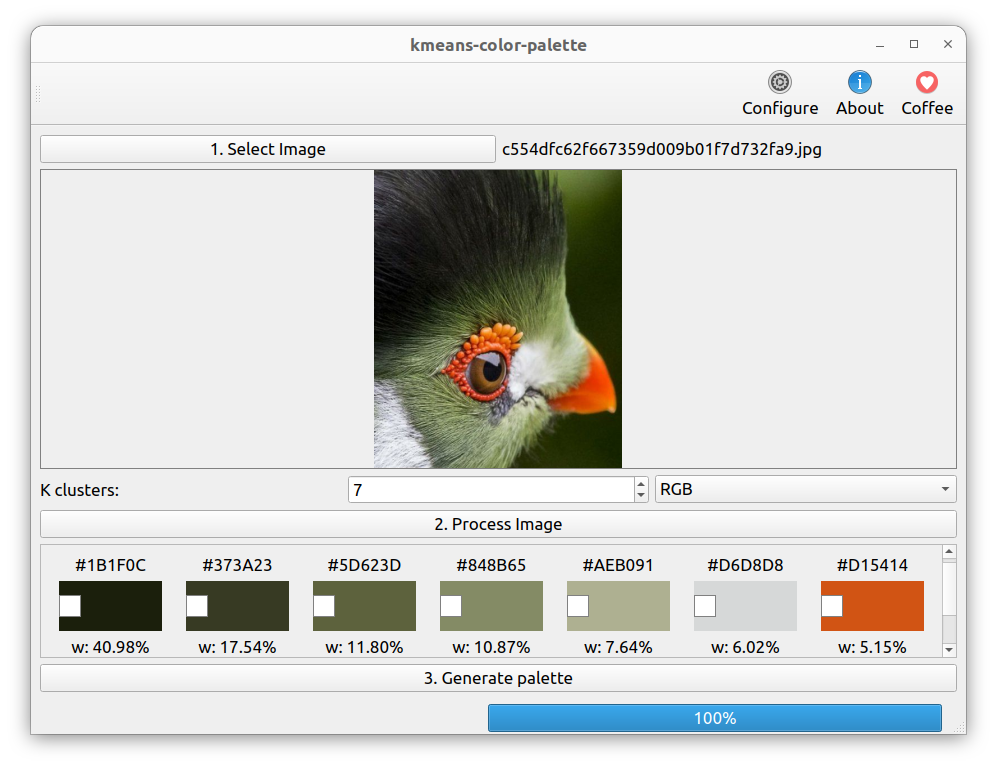
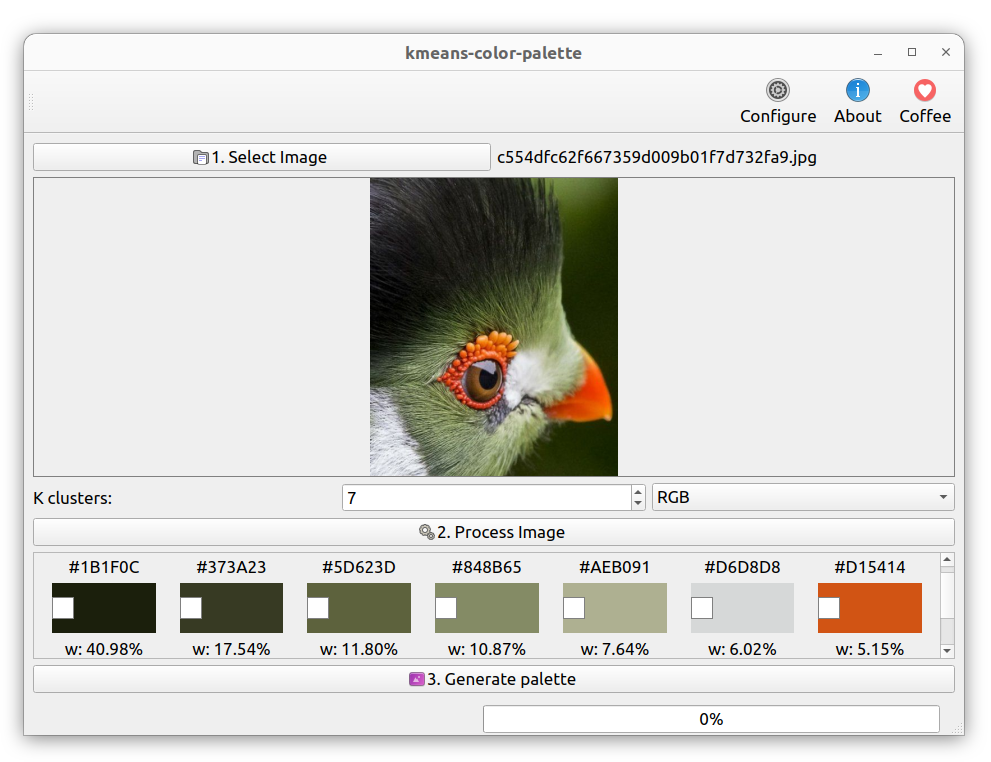
primera version

Changed region(s): [[0.0, 0.0302, 0.999, 0.9659], [0.9384, 0.2113, 0.9687, 0.2415], [0.333, 0.6339, 0.3633, 0.664]]

diff --git a/src/kmeans_color_palette/program.py b/src/kmeans_color_palette/program.py
@@ -345,6 +345,7 @@ class ColorPaletteGUI(QMainWindow):
         # --- Atualizar GUI ---
         self.update_colors_gui()
         
+        self.progress.setValue(0)
         self.setEnabled(True)
 
     def update_colors_gui(self):
@@ -463,8 +464,25 @@ class ColorPaletteGUI(QMainWindow):
 def main():
     signal.signal(signal.SIGINT, signal.SIG_DFL)
     
+    create_desktop_directory()    
+    create_desktop_menu()
+    create_desktop_file('~/.local/share/applications')
+    
+    for n in range(len(sys.argv)):
+        if sys.argv[n] == "--autostart":
+            create_desktop_directory(overwrite = True)
+            create_desktop_menu(overwrite = True)
+            create_desktop_file('~/.config/autostart', overwrite=True)
+            return
+        if sys.argv[n] == "--applications":
+            create_desktop_directory(overwrite = True)
+            create_desktop_menu(overwrite = True)
+            create_desktop_file('~/.local/share/applications', overwrite=True)
+            return
     
     app = QApplication(sys.argv)
+    app.setApplicationName(about.__package__) 
+    
     window = ColorPaletteGUI()
     window.show()
     sys.exit(app.exec_())
